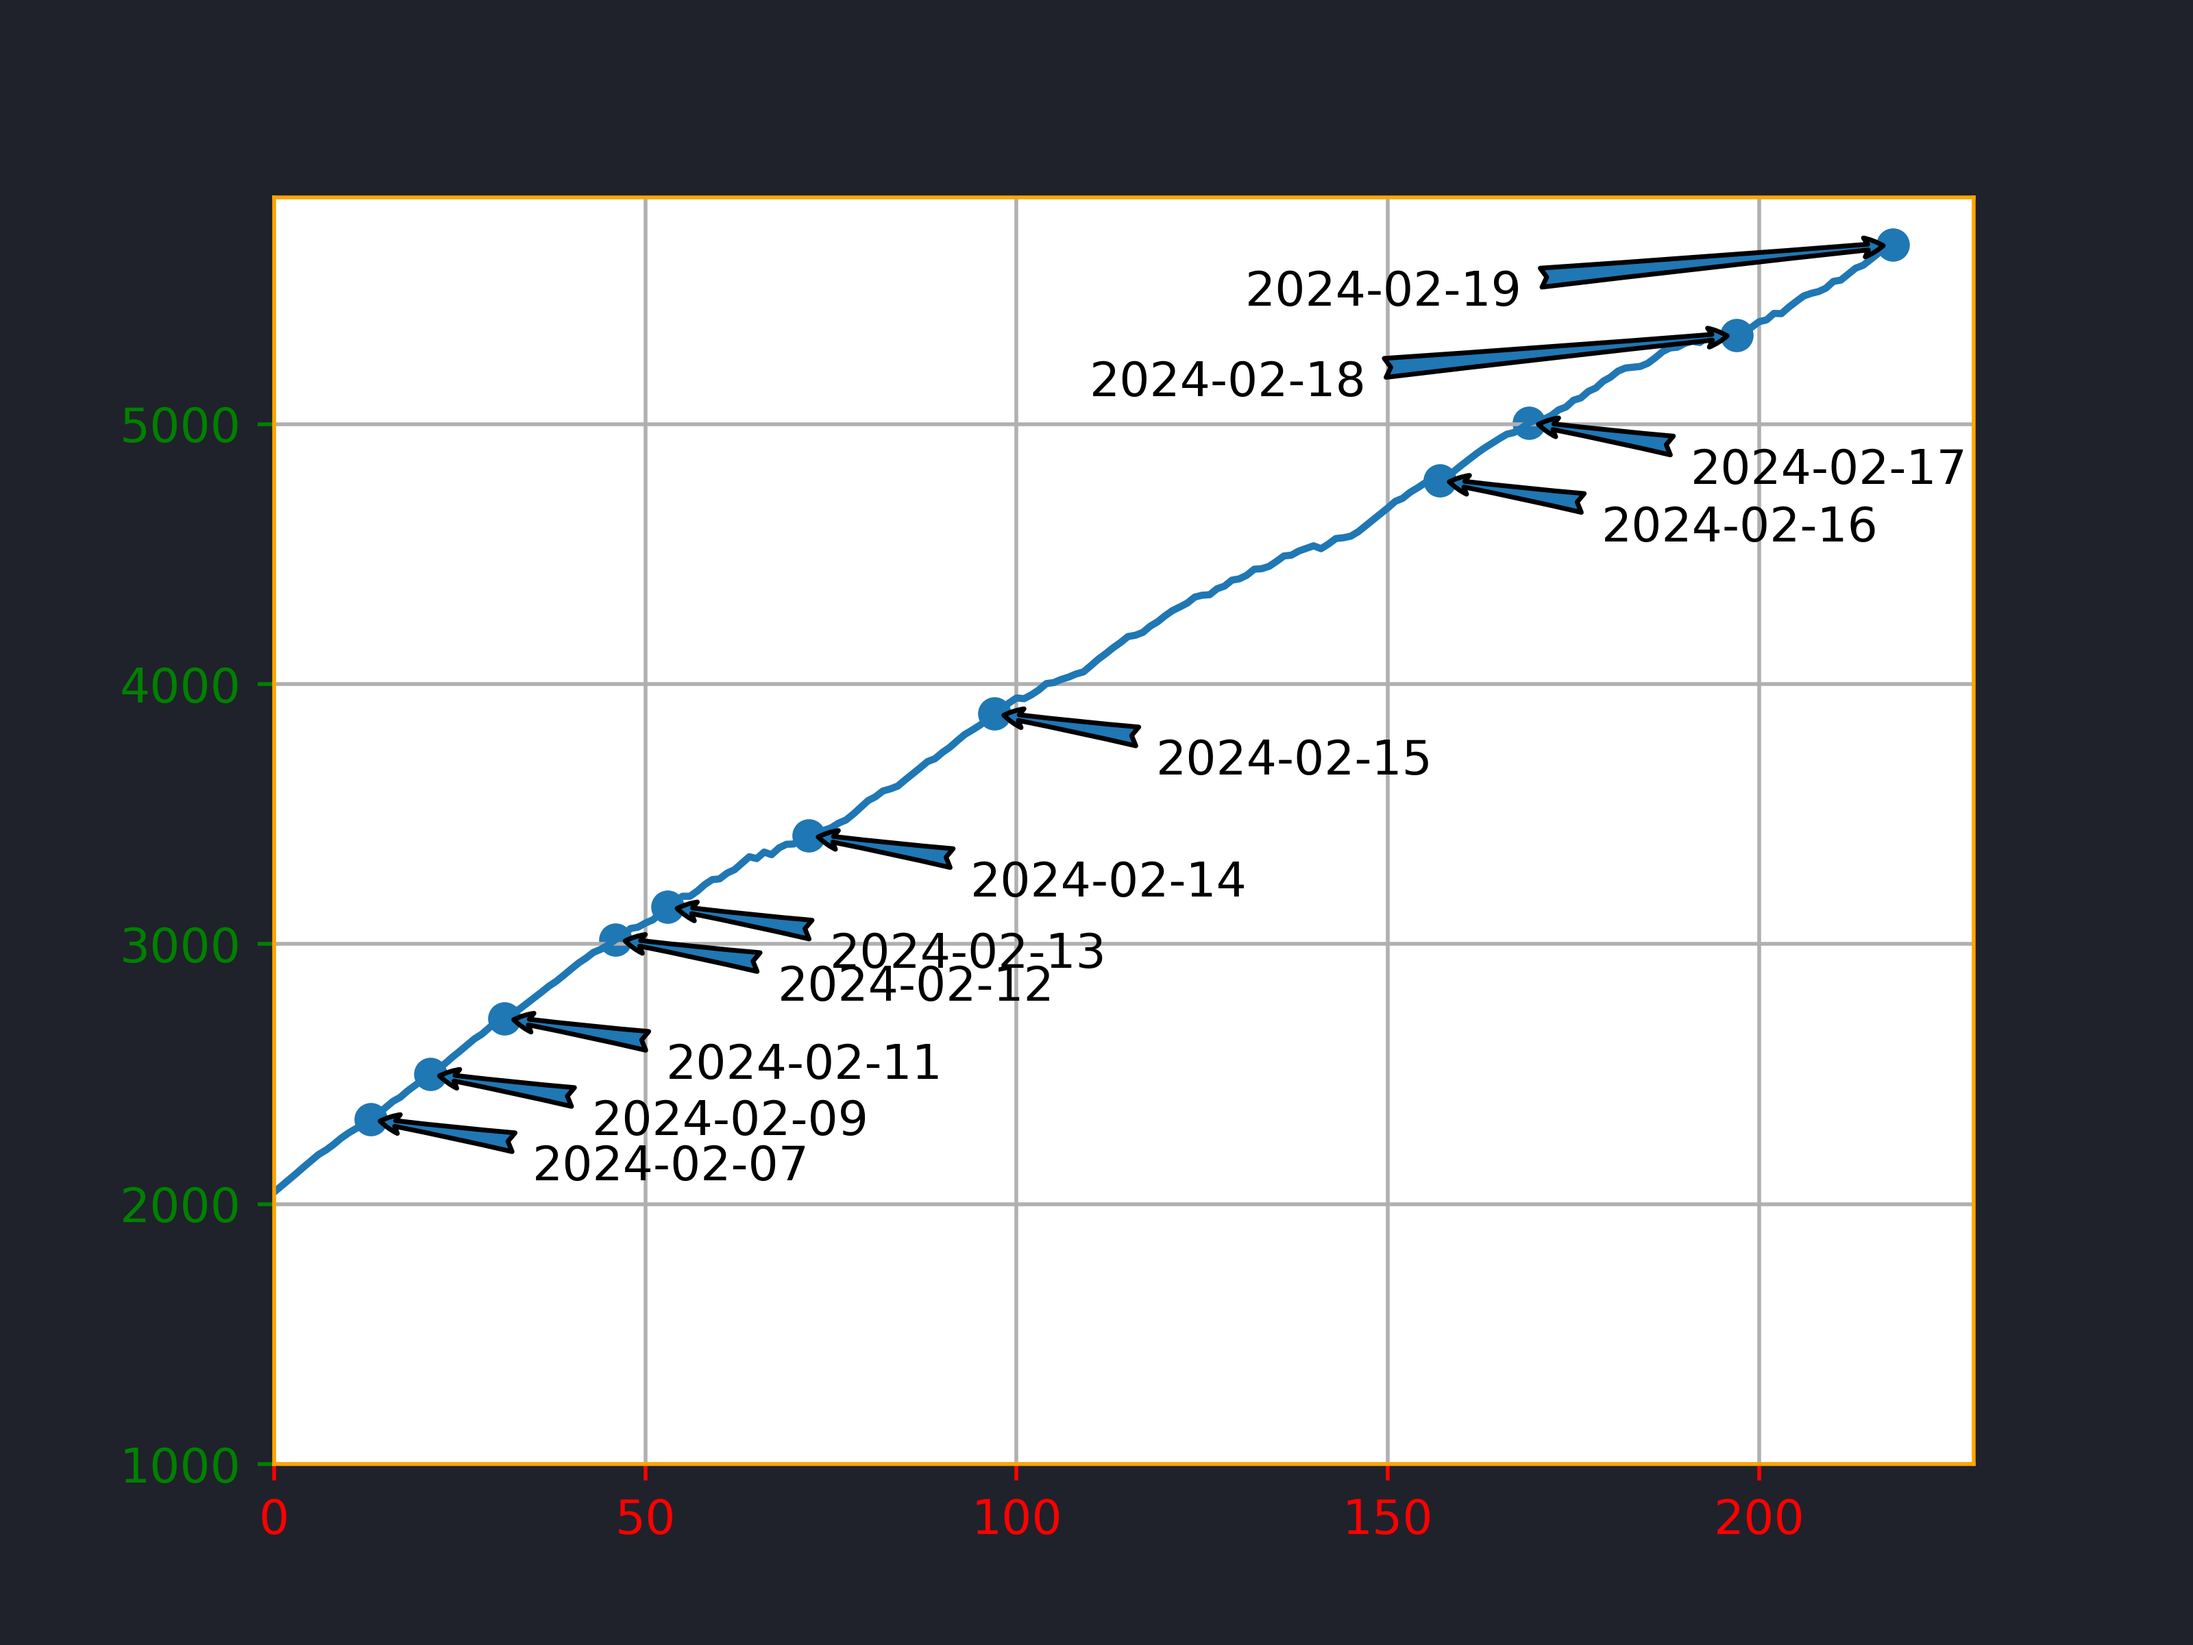
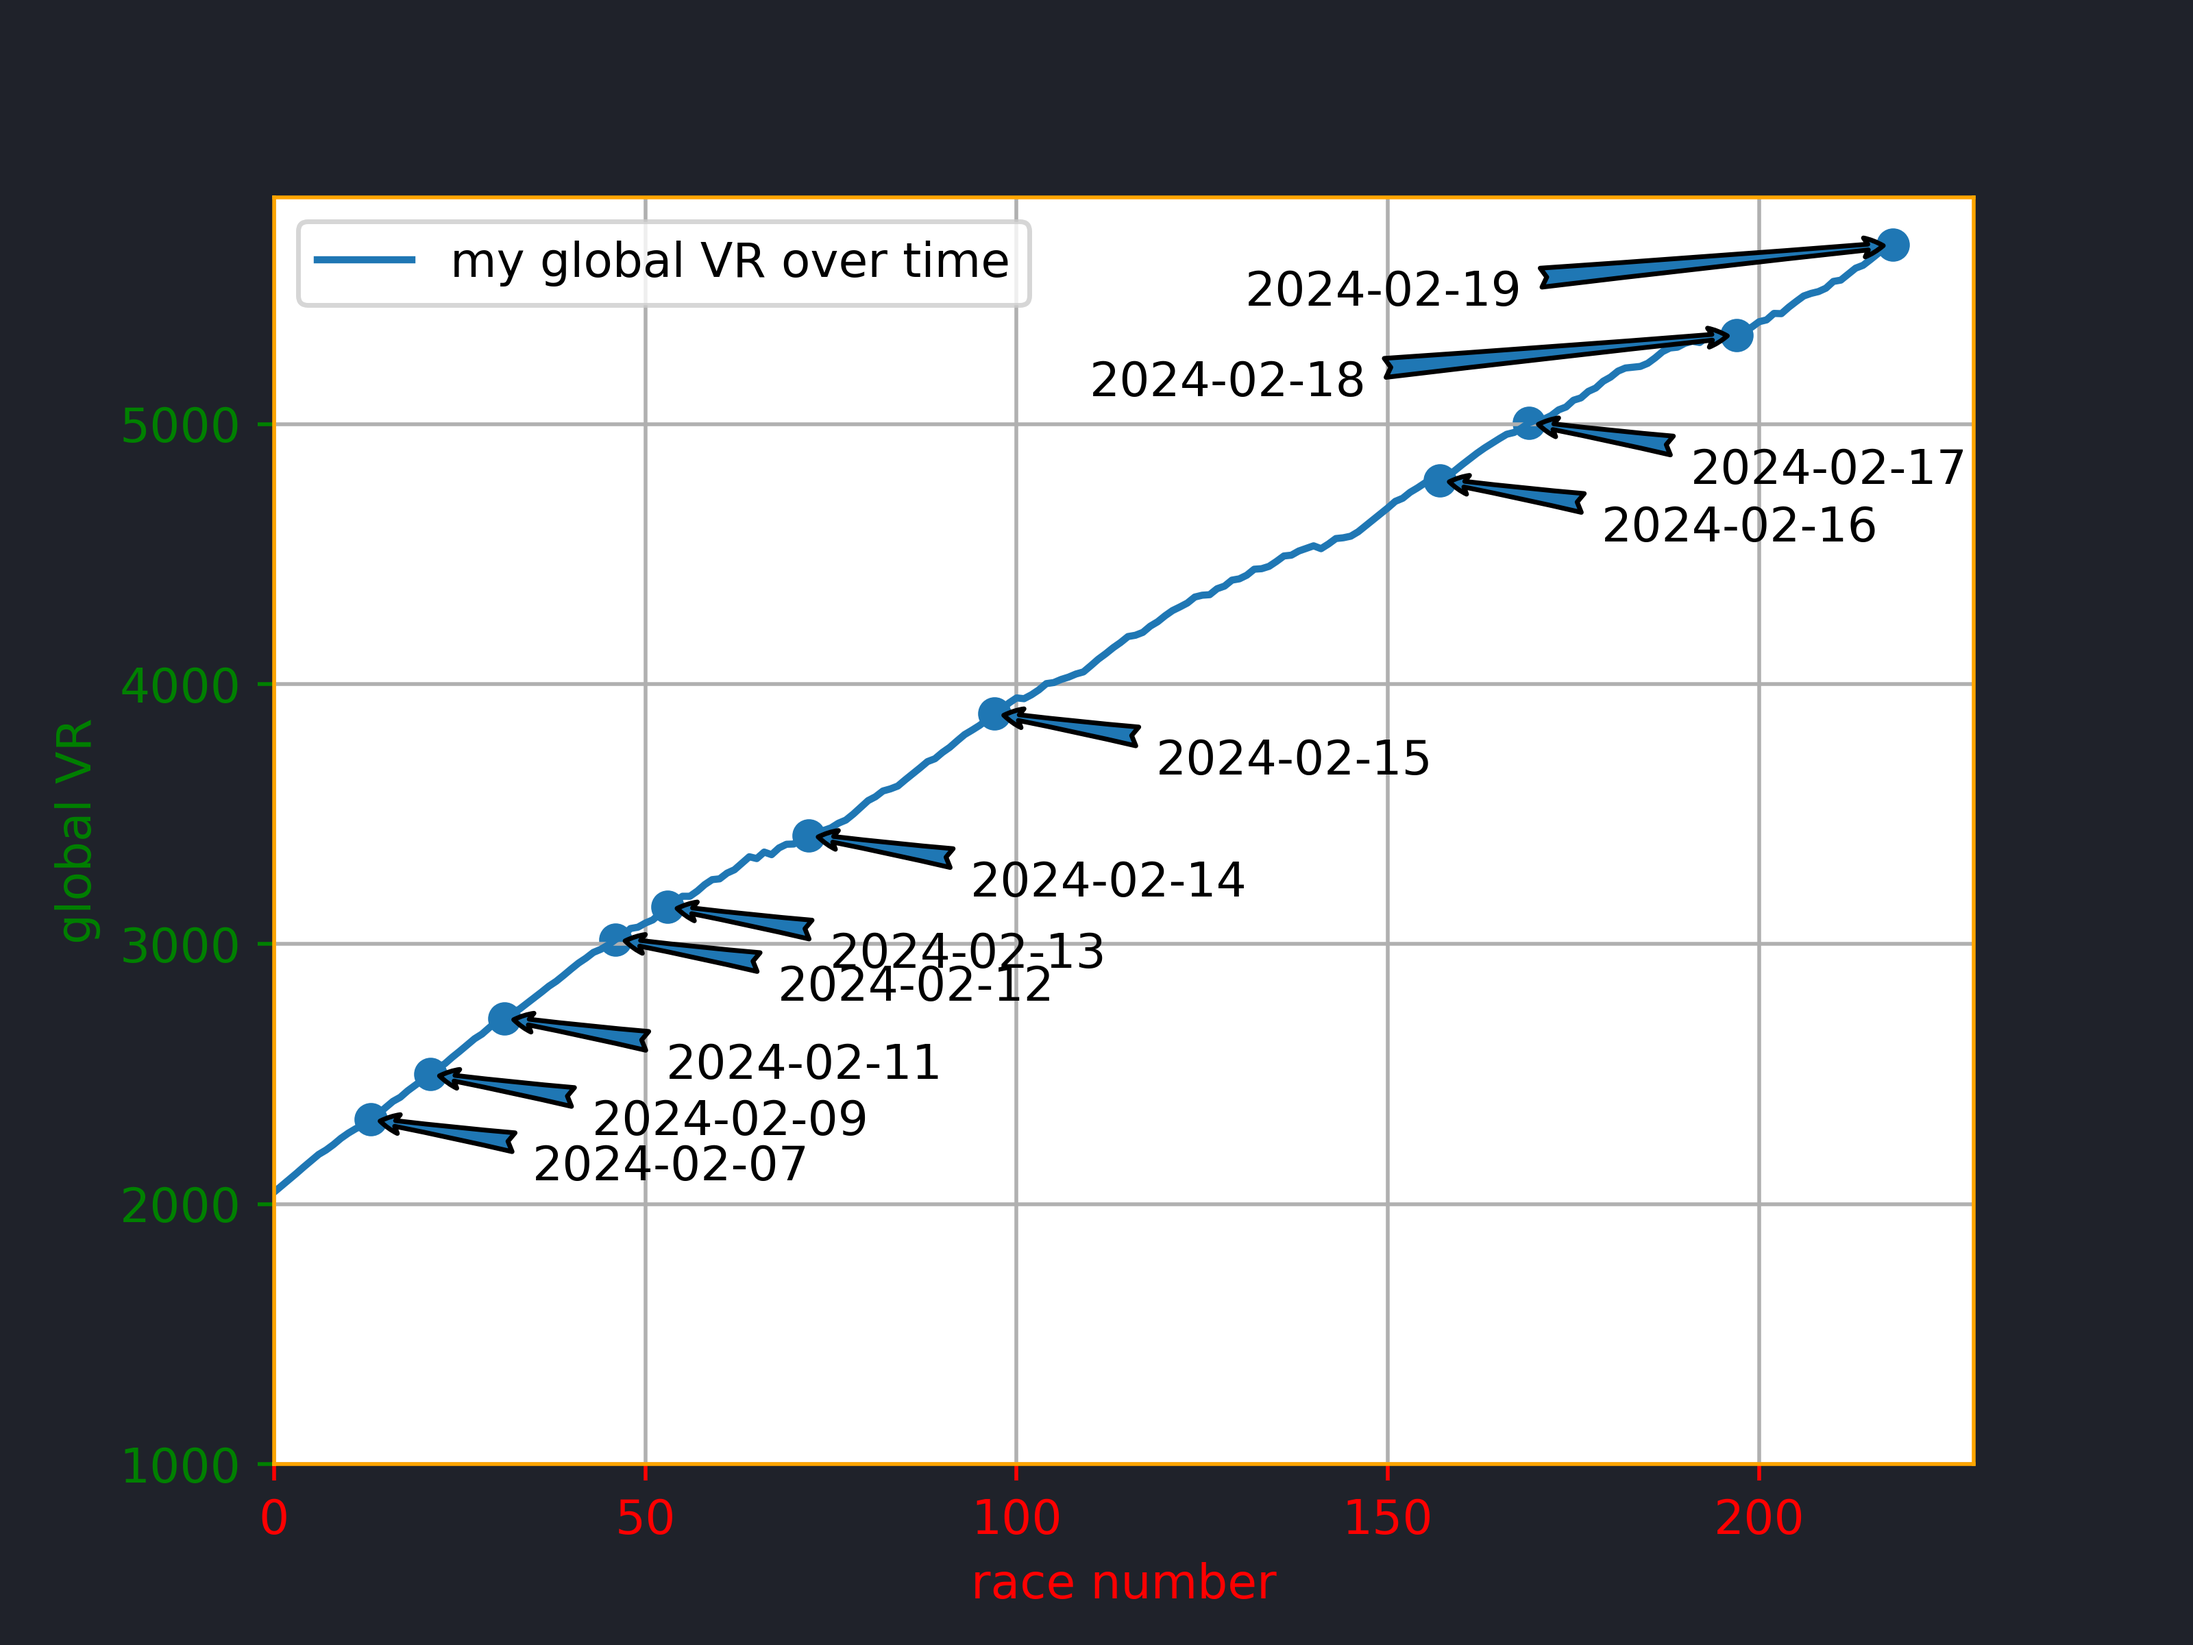
add tick labels and a legend to the MK8 post (#8)

diff --git a/content/posts/my-mario-kart-8-deluxe-adventure/plot.py b/content/posts/my-mario-kart-8-deluxe-adventure/plot.py
@@ -19,6 +19,8 @@ with plt.rc_context(colors):
     fig, ax = plt.subplots(nrows=1, ncols=1)
     fig.canvas.manager.full_screen_toggle()
     fig.patch.set_facecolor((31 / 255, 34 / 255, 42 / 255))
+    ax.xaxis.label.set_color(colors["xtick.color"])
+    ax.yaxis.label.set_color(colors["ytick.color"])
 
     dates = [day["date"] for day in days]
     indices = [day["index"] for day in days]
@@ -38,12 +40,16 @@ with plt.rc_context(colors):
             arrowprops=dict(arrowstyle="fancy")
         )
 
-    ax.plot(data)
+    ax.plot(data, label="my global VR over time")
 
 plt.grid(True)
 
 plt.xlim([0, None])
 plt.ylim([MIN_SCORE, None])
+
+plt.xlabel("race number")
+plt.ylabel("global VR")
+plt.legend()
 
 plt.savefig(
     os.path.join(os.path.dirname(__file__), "scores.png"),
